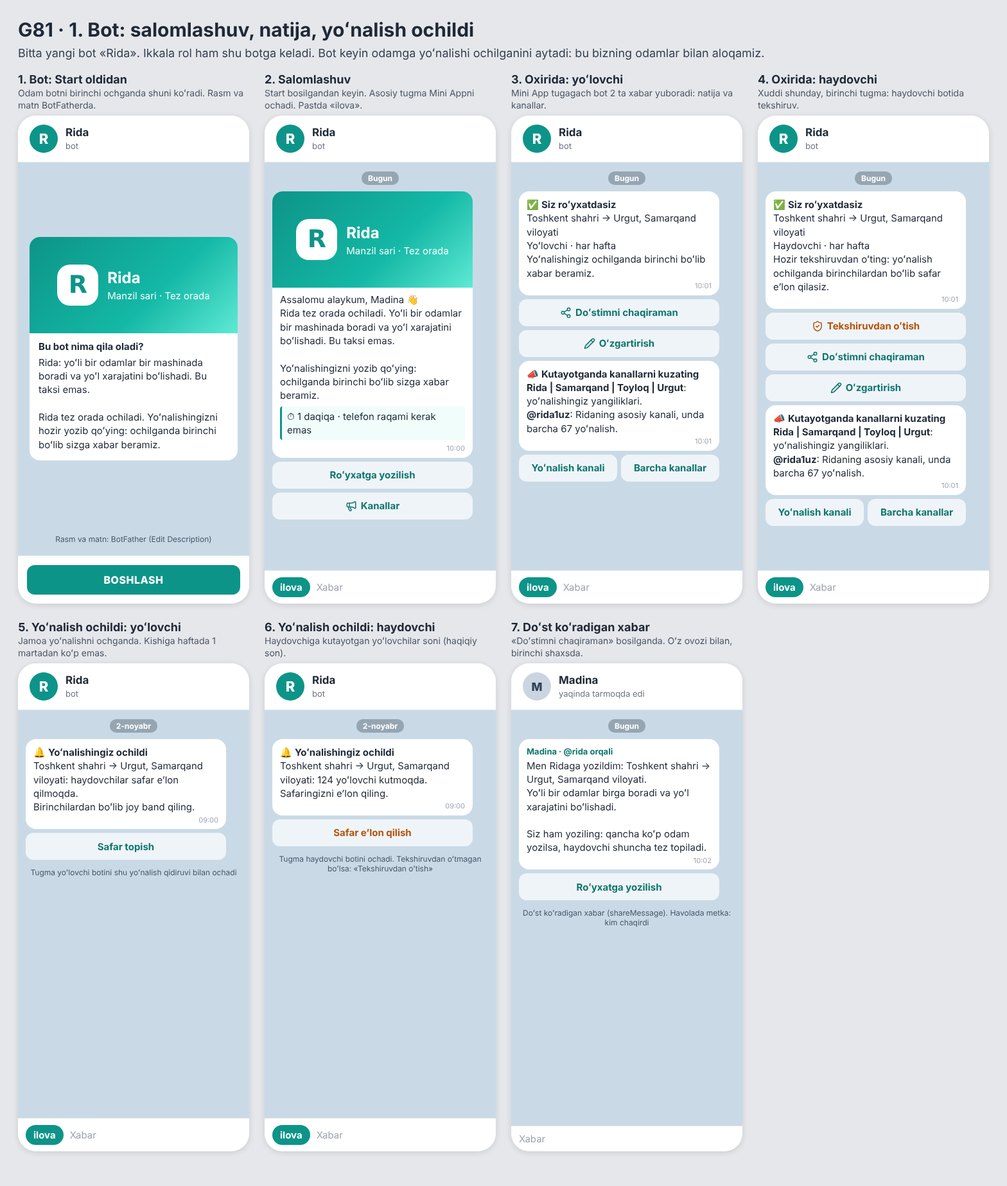
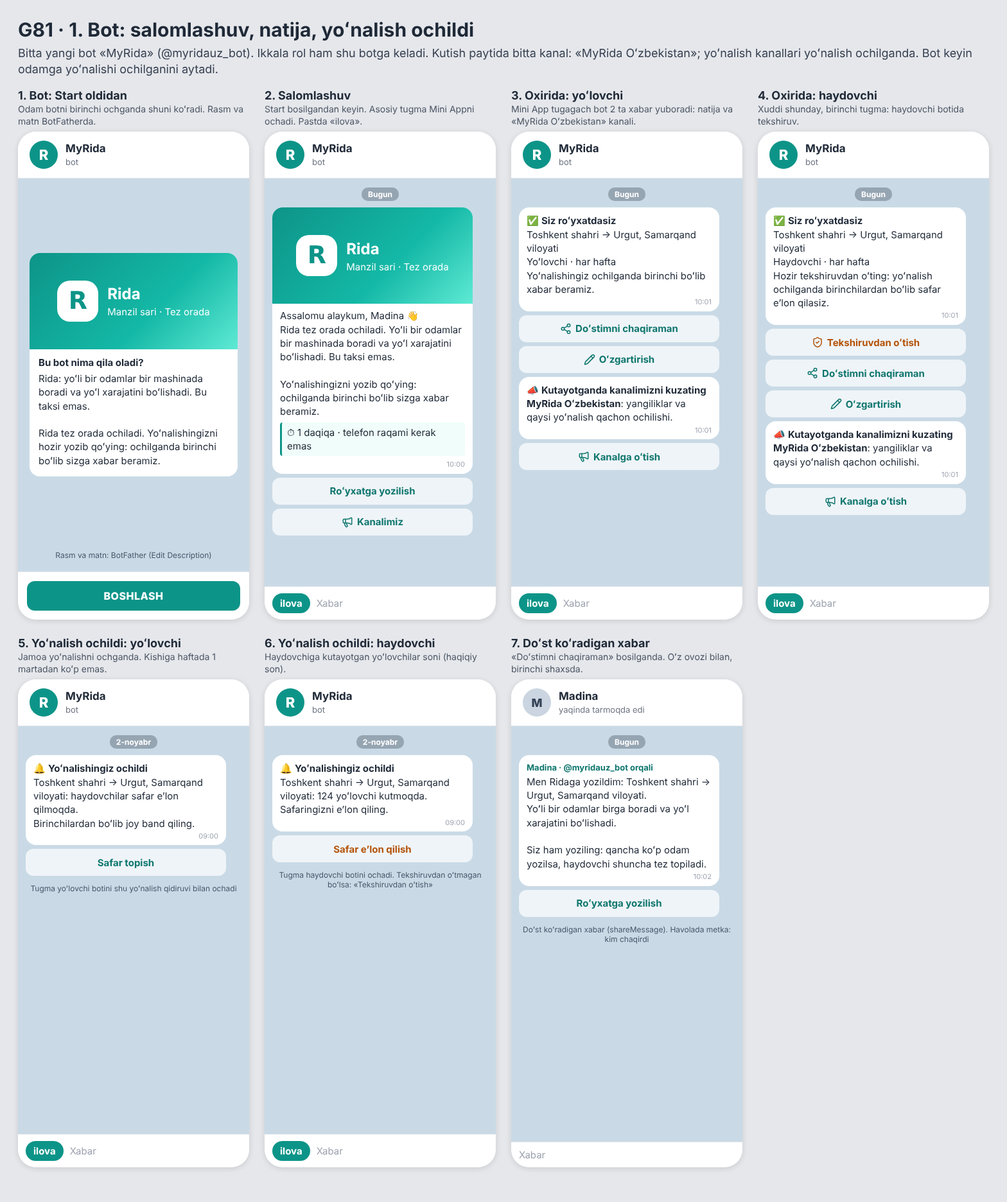
G81: бот MyRida, канал «MyRida Oʻzbekistan» на время списка (решение владельца 14.10.2026)
Claude-Session: https://claude.ai/code/session_017t3fyWoGp8cMjeQ2tEG71h

Changed region(s): [[0.0, 0.0309, 1.0, 0.8024]]

diff --git a/docs/goals/g81/src/1-bot.html b/docs/goals/g81/src/1-bot.html
@@ -121,4 +121,4 @@ h1{font-size:30px;margin-bottom:6px}
 .about .t{padding:10px 14px 14px}
 .about .t b{display:block;margin-bottom:4px}
 .tgnote{font-size:12px;color:#475569;text-align:center;padding:6px}
-</style></head><body><svg width="0" height="0" style="position:absolute"><defs><symbol id="user-round" viewBox="0 0 24 24" fill="none" stroke="currentColor" stroke-width="2" stroke-linecap="round" stroke-linejoin="round"><circle cx="12" cy="8" r="5" /> <path d="M20 21a8 8 0 0 0-16 0" /></symbol><symbol id="car-front" viewBox="0 0 24 24" fill="none" stroke="currentColor" stroke-width="2" stroke-linecap="round" stroke-linejoin="round"><path d="m21 8-2 2-1.5-3.7A2 2 0 0 0 15.646 5H8.4a2 2 0 0 0-1.903 1.257L5 10 3 8" /> <path d="M7 14h.01" /> <path d="M17 14h.01" /> <rect width="18" height="8" x="3" y="10" rx="2" /> <path d="M5 18v2" /> <path d="M19 18v2" /></symbol><symbol id="check" viewBox="0 0 24 24" fill="none" stroke="currentColor" stroke-width="2" stroke-linecap="round" stroke-linejoin="round"><path d="M20 6 9 17l-5-5" /></symbol><symbol id="chevron-right" viewBox="0 0 24 24" fill="none" stroke="currentColor" stroke-width="2" stroke-linecap="round" stroke-linejoin="round"><path d="m9 18 6-6-6-6" /></symbol><symbol id="users" viewBox="0 0 24 24" fill="none" stroke="currentColor" stroke-width="2" stroke-linecap="round" stroke-linejoin="round"><path d="M16 21v-2a4 4 0 0 0-4-4H6a4 4 0 0 0-4 4v2" /> <path d="M16 3.128a4 4 0 0 1 0 7.744" /> <path d="M22 21v-2a4 4 0 0 0-3-3.87" /> <circle cx="9" cy="7" r="4" /></symbol><symbol id="shield-check" viewBox="0 0 24 24" fill="none" stroke="currentColor" stroke-width="2" stroke-linecap="round" stroke-linejoin="round"><path d="M20 13c0 5-3.5 7.5-7.66 8.95a1 1 0 0 1-.67-.01C7.5 20.5 4 18 4 13V6a1 1 0 0 1 1-1c2 0 4.5-1.2 6.24-2.72a1.17 1.17 0 0 1 1.52 0C14.51 3.81 17 5 19 5a1 1 0 0 1 1 1z" /> <path d="m9 12 2 2 4-4" /></symbol><symbol id="banknote" viewBox="0 0 24 24" fill="none" stroke="currentColor" stroke-width="2" stroke-linecap="round" stroke-linejoin="round"><rect width="20" height="12" x="2" y="6" rx="2" /> <circle cx="12" cy="12" r="2" /> <path d="M6 12h.01M18 12h.01" /></symbol><symbol id="eye-off" viewBox="0 0 24 24" fill="none" stroke="currentColor" stroke-width="2" stroke-linecap="round" stroke-linejoin="round"><path d="M10.733 5.076a10.744 10.744 0 0 1 11.205 6.575 1 1 0 0 1 0 .696 10.747 10.747 0 0 1-1.444 2.49" /> <path d="M14.084 14.158a3 3 0 0 1-4.242-4.242" /> <path d="M17.479 17.499a10.75 10.75 0 0 1-15.417-5.151 1 1 0 0 1 0-.696 10.75 10.75 0 0 1 4.446-5.143" /> <path d="m2 2 20 20" /></symbol><symbol id="megaphone" viewBox="0 0 24 24" fill="none" stroke="currentColor" stroke-width="2" stroke-linecap="round" stroke-linejoin="round"><path d="M11 6a13 13 0 0 0 8.4-2.8A1 1 0 0 1 21 4v12a1 1 0 0 1-1.6.8A13 13 0 0 0 11 14H5a2 2 0 0 1-2-2V8a2 2 0 0 1 2-2z" /> <path d="M6 14a12 12 0 0 0 2.4 7.2 2 2 0 0 0 3.2-2.4A8 8 0 0 1 10 14" /> <path d="M8 6v8" /></symbol><symbol id="share-2" viewBox="0 0 24 24" fill="none" stroke="currentColor" stroke-width="2" stroke-linecap="round" stroke-linejoin="round"><circle cx="18" cy="5" r="3" /> <circle cx="6" cy="12" r="3" /> <circle cx="18" cy="19" r="3" /> <line x1="8.59" x2="15.42" y1="13.51" y2="17.49" /> <line x1="15.41" x2="8.59" y1="6.51" y2="10.49" /></symbol><symbol id="bell" viewBox="0 0 24 24" fill="none" stroke="currentColor" stroke-width="2" stroke-linecap="round" stroke-linejoin="round"><path d="M10.268 21a2 2 0 0 0 3.464 0" /> <path d="M3.262 15.326A1 1 0 0 0 4 17h16a1 1 0 0 0 .74-1.673C19.41 13.956 18 12.499 18 8A6 6 0 0 0 6 8c0 4.499-1.411 5.956-2.738 7.326" /></symbol><symbol id="repeat" viewBox="0 0 24 24" fill="none" stroke="currentColor" stroke-width="2" stroke-linecap="round" stroke-linejoin="round"><path d="m17 2 4 4-4 4" /> <path d="M3 11v-1a4 4 0 0 1 4-4h14" /> <path d="m7 22-4-4 4-4" /> <path d="M21 13v1a4 4 0 0 1-4 4H3" /></symbol><symbol id="calendar-days" viewBox="0 0 24 24" fill="none" stroke="currentColor" stroke-width="2" stroke-linecap="round" stroke-linejoin="round"><path d="M8 2v3" /> <path d="M16 2v3" /> <rect x="3" y="3" width="18" height="18" rx="2" /> <path d="M3 9h18" /> <path d="M8 13h.01" /> <path d="M12 13h.01" /> <path d="M16 13h.01" /> <path d="M8 17h.01" /> <path d="M12 17h.01" /> <path d="M16 17h.01" /></symbol><symbol id="party-popper" viewBox="0 0 24 24" fill="none" stroke="currentColor" stroke-width="2" stroke-linecap="round" stroke-linejoin="round"><path d="M5.8 11.3 2 22l10.7-3.79" /> <path d="M4 3h.01" /> <path d="M22 8h.01" /> <path d="M15 2h.01" /> <path d="M22 20h.01" /> <path d="m22 2-2.24.75a2.9 2.9 0 0 0-1.96 3.12c.1.86-.57 1.63-1.45 1.63h-.38c-.86 0-1.6.6-1.76 1.44L14 10" /> <path d="m22 13-.82-.33c-.86-.34-1.82.2-1.98 1.11c-.11.7-.72 1.22-1.43 1.22H17" /> <path d="m11 2 .33.82c.34.86-.2 1.82-1.11 1.98C9.52 4.9 9 5.52 9 6.23V7" /> <path d="M11 13c1.93 1.93 2.83 4.17 2 5-.83.83-3.07-.07-5-2-1.93-1.93-2.83-4.17-2-5 .83-.83 3.07.07 5 2Z" /></symbol><symbol id="calendar-check" viewBox="0 0 24 24" fill="none" stroke="currentColor" stroke-width="2" stroke-linecap="round" stroke-linejoin="round"><path d="M8 2v3" /> <path d="M16 2v3" /> <rect x="3" y="3" width="18" height="18" rx="2" /> <path d="M3 9h18" /> <path d="m9 15 2 2 4-4" /></symbol><symbol id="calendar-clock" viewBox="0 0 24 24" fill="none" stroke="currentColor" stroke-width="2" stroke-linecap="round" stroke-linejoin="round"><path d="M16 14v2.2l1.6 1" /> <path d="M16 2v3" /> <path d="M21 7.338V5a2 2 0 00-2-2H5a2 2 0 00-2 2v14a2 2 0 002 2h2.338" /> <path d="M3 9h5.859" /> <path d="M8 2v3" /> <circle cx="16" cy="16" r="6" /></symbol><symbol id="clock" viewBox="0 0 24 24" fill="none" stroke="currentColor" stroke-width="2" stroke-linecap="round" stroke-linejoin="round"><circle cx="12" cy="12" r="10" /> <path d="M12 6v6l4 2" /></symbol><symbol id="search" viewBox="0 0 24 24" fill="none" stroke="currentColor" stroke-width="2" stroke-linecap="round" stroke-linejoin="round"><path d="m21 21-4.34-4.34" /> <circle cx="11" cy="11" r="8" /></symbol><symbol id="trash-2" viewBox="0 0 24 24" fill="none" stroke="currentColor" stroke-width="2" stroke-linecap="round" stroke-linejoin="round"><path d="M10 11v6" /> <path d="M14 11v6" /> <path d="M19 6v14a2 2 0 0 1-2 2H7a2 2 0 0 1-2-2V6" /> <path d="M3 6h18" /> <path d="M8 6V4a2 2 0 0 1 2-2h4a2 2 0 0 1 2 2v2" /></symbol><symbol id="x" viewBox="0 0 24 24" fill="none" stroke="currentColor" stroke-width="2" stroke-linecap="round" stroke-linejoin="round"><path d="M18 6 6 18" /> <path d="m6 6 12 12" /></symbol><symbol id="map-pin" viewBox="0 0 24 24" fill="none" stroke="currentColor" stroke-width="2" stroke-linecap="round" stroke-linejoin="round"><path d="M20 10c0 4.993-5.539 10.193-7.399 11.799a1 1 0 0 1-1.202 0C9.539 20.193 4 14.993 4 10a8 8 0 0 1 16 0" /> <circle cx="12" cy="10" r="3" /></symbol><symbol id="send" viewBox="0 0 24 24" fill="none" stroke="currentColor" stroke-width="2" stroke-linecap="round" stroke-linejoin="round"><path d="M14.536 21.686a.5.5 0 0 0 .937-.024l6.5-19a.496.496 0 0 0-.635-.635l-19 6.5a.5.5 0 0 0-.024.937l7.93 3.18a2 2 0 0 1 1.112 1.11z" /> <path d="m21.854 2.147-10.94 10.939" /></symbol><symbol id="user-plus" viewBox="0 0 24 24" fill="none" stroke="currentColor" stroke-width="2" stroke-linecap="round" stroke-linejoin="round"><path d="M16 21v-2a4 4 0 0 0-4-4H6a4 4 0 0 0-4 4v2" /> <circle cx="9" cy="7" r="4" /> <line x1="19" x2="19" y1="8" y2="14" /> <line x1="22" x2="16" y1="11" y2="11" /></symbol><symbol id="pencil" viewBox="0 0 24 24" fill="none" stroke="currentColor" stroke-width="2" stroke-linecap="round" stroke-linejoin="round"><path d="M21.174 6.812a1 1 0 0 0-3.986-3.987L3.842 16.174a2 2 0 0 0-.5.83l-1.321 4.352a.5.5 0 0 0 .623.622l4.353-1.32a2 2 0 0 0 .83-.497z" /> <path d="m15 5 4 4" /></symbol><symbol id="chart-column" viewBox="0 0 24 24" fill="none" stroke="currentColor" stroke-width="2" stroke-linecap="round" stroke-linejoin="round"><path d="M3 3v16a2 2 0 0 0 2 2h16" /> <path d="M18 17V9" /> <path d="M13 17V5" /> <path d="M8 17v-3" /></symbol><symbol id="route" viewBox="0 0 24 24" fill="none" stroke="currentColor" stroke-width="2" stroke-linecap="round" stroke-linejoin="round"><circle cx="6" cy="19" r="3" /> <path d="M9 19h8.5a3.5 3.5 0 0 0 0-7h-11a3.5 3.5 0 0 1 0-7H15" /> <circle cx="18" cy="5" r="3" /></symbol><symbol id="circle-check" viewBox="0 0 24 24" fill="none" stroke="currentColor" stroke-width="2" stroke-linecap="round" stroke-linejoin="round"><circle cx="12" cy="12" r="10" /> <path d="m16 9-5.5 5.5L8 12" /></symbol></defs></svg><h1>G81 · 1. Bot: salomlashuv, natija, yoʻnalish ochildi</h1><div class="sub">Bitta yangi bot «Rida». Ikkala rol ham shu botga keladi. Bot keyin odamga yoʻnalishi ochilganini aytadi: bu bizning odamlar bilan aloqamiz.</div><div class="row"><div class="col"><div class="lab">1. Bot: Start oldidan<small>Odam botni birinchi ochganda shuni koʻradi. Rasm va matn BotFatherda.</small></div><div class="ph "><div class="tg"><div class="av ">R</div><div><b>Rida</b><span>bot</span></div></div><div class="chat" style="justify-content:center"><div class="about"><div class="pic"><div class="logo">R</div><div><b>Rida</b><span>Manzil sari · Tez orada</span></div></div><div class="t"><b>Bu bot nima qila oladi?</b>Rida: yoʻli bir odamlar bir mashinada boradi va yoʻl xarajatini boʻlishadi. Bu taksi emas.<br><br>Rida tez orada ochiladi. Yoʻnalishingizni hozir yozib qoʻying: ochilganda birinchi boʻlib sizga xabar beramiz.</div></div><div class="tgnote">Rasm va matn: BotFather (Edit Description)</div></div><div class="start"><div>BOSHLASH</div></div></div></div><div class="col"><div class="lab">2. Salomlashuv<small>Start bosilgandan keyin. Asosiy tugma Mini Appni ochadi. Pastda «ilova».</small></div><div class="ph "><div class="tg"><div class="av ">R</div><div><b>Rida</b><span>bot</span></div></div><div class="chat"><div class="date">Bugun</div><div class="msg"><div class="pic"><div class="logo">R</div><div><b>Rida</b><span>Manzil sari · Tez orada</span></div></div>Assalomu alaykum, Madina 👋<br>Rida tez orada ochiladi. Yoʻli bir odamlar bir mashinada boradi va yoʻl xarajatini boʻlishadi. Bu taksi emas.<br><br>Yoʻnalishingizni yozib qoʻying: ochilganda birinchi boʻlib sizga xabar beramiz.<div class="q">⏱ 1 daqiqa · telefon raqami kerak emas</div><time>10:00</time></div><div class="kb"><div>Roʻyxatga yozilish</div></div><div class="kb"><div><svg style="width:18px;height:18px;flex:none"><use href="#megaphone"/></svg>Kanallar</div></div></div><div class="input"><span class="menu">ilova</span><span>Xabar</span></div></div></div><div class="col"><div class="lab">3. Oxirida: yoʻlovchi<small>Mini App tugagach bot 2 ta xabar yuboradi: natija va kanallar.</small></div><div class="ph "><div class="tg"><div class="av ">R</div><div><b>Rida</b><span>bot</span></div></div><div class="chat"><div class="date">Bugun</div><div class="msg">✅ <b>Siz roʻyxatdasiz</b><br>Toshkent shahri → Urgut, Samarqand viloyati<br>Yoʻlovchi · har hafta<br>Yoʻnalishingiz ochilganda birinchi boʻlib xabar beramiz.<time>10:01</time></div><div class="kb"><div><svg style="width:18px;height:18px;flex:none"><use href="#share-2"/></svg>Doʻstimni chaqiraman</div></div><div class="kb"><div><svg style="width:18px;height:18px;flex:none"><use href="#pencil"/></svg>Oʻzgartirish</div></div><div class="msg">📣 <b>Kutayotganda kanallarni kuzating</b><br><b>Rida | Samarqand | Toyloq | Urgut</b>: yoʻnalishingiz yangiliklari.<br><b>@rida1uz</b>: Ridaning asosiy kanali, unda barcha 67 yoʻnalish.<time>10:01</time></div><div class="kb two"><div>Yoʻnalish kanali</div><div>Barcha kanallar</div></div></div><div class="input"><span class="menu">ilova</span><span>Xabar</span></div></div></div><div class="col"><div class="lab">4. Oxirida: haydovchi<small>Xuddi shunday, birinchi tugma: haydovchi botida tekshiruv.</small></div><div class="ph "><div class="tg"><div class="av ">R</div><div><b>Rida</b><span>bot</span></div></div><div class="chat"><div class="date">Bugun</div><div class="msg">✅ <b>Siz roʻyxatdasiz</b><br>Toshkent shahri → Urgut, Samarqand viloyati<br>Haydovchi · har hafta<br>Hozir tekshiruvdan oʻting: yoʻnalish ochilganda birinchilardan boʻlib safar eʼlon qilasiz.<time>10:01</time></div><div class="kb"><div style="color:#B45309"><svg style="width:18px;height:18px;flex:none"><use href="#shield-check"/></svg>Tekshiruvdan oʻtish</div></div><div class="kb"><div><svg style="width:18px;height:18px;flex:none"><use href="#share-2"/></svg>Doʻstimni chaqiraman</div></div><div class="kb"><div><svg style="width:18px;height:18px;flex:none"><use href="#pencil"/></svg>Oʻzgartirish</div></div><div class="msg">📣 <b>Kutayotganda kanallarni kuzating</b><br><b>Rida | Samarqand | Toyloq | Urgut</b>: yoʻnalishingiz yangiliklari.<br><b>@rida1uz</b>: Ridaning asosiy kanali, unda barcha 67 yoʻnalish.<time>10:01</time></div><div class="kb two"><div>Yoʻnalish kanali</div><div>Barcha kanallar</div></div></div><div class="input"><span class="menu">ilova</span><span>Xabar</span></div></div></div></div><div class="row"><div class="col"><div class="lab">5. Yoʻnalish ochildi: yoʻlovchi<small>Jamoa yoʻnalishni ochganda. Kishiga haftada 1 martadan koʻp emas.</small></div><div class="ph "><div class="tg"><div class="av ">R</div><div><b>Rida</b><span>bot</span></div></div><div class="chat"><div class="date">2-noyabr</div><div class="msg">🔔 <b>Yoʻnalishingiz ochildi</b><br>Toshkent shahri → Urgut, Samarqand viloyati: haydovchilar safar eʼlon qilmoqda.<br>Birinchilardan boʻlib joy band qiling.<time>09:00</time></div><div class="kb"><div>Safar topish</div></div><div class="tgnote">Tugma yoʻlovchi botini shu yoʻnalish qidiruvi bilan ochadi</div></div><div class="input"><span class="menu">ilova</span><span>Xabar</span></div></div></div><div class="col"><div class="lab">6. Yoʻnalish ochildi: haydovchi<small>Haydovchiga kutayotgan yoʻlovchilar soni (haqiqiy son).</small></div><div class="ph "><div class="tg"><div class="av ">R</div><div><b>Rida</b><span>bot</span></div></div><div class="chat"><div class="date">2-noyabr</div><div class="msg">🔔 <b>Yoʻnalishingiz ochildi</b><br>Toshkent shahri → Urgut, Samarqand viloyati: 124 yoʻlovchi kutmoqda.<br>Safaringizni eʼlon qiling.<time>09:00</time></div><div class="kb"><div style="color:#B45309">Safar eʼlon qilish</div></div><div class="tgnote">Tugma haydovchi botini ochadi. Tekshiruvdan oʻtmagan boʻlsa: «Tekshiruvdan oʻtish»</div></div><div class="input"><span class="menu">ilova</span><span>Xabar</span></div></div></div><div class="col"><div class="lab">7. Doʻst koʻradigan xabar<small>«Doʻstimni chaqiraman» bosilganda. Oʻz ovozi bilan, birinchi shaxsda.</small></div><div class="ph "><div class="tg"><div class="av f">M</div><div><b>Madina</b><span>yaqinda tarmoqda edi</span></div></div><div class="chat"><div class="date">Bugun</div><div class="msg"><div class="via">Madina · @rida orqali</div>Men Ridaga yozildim: Toshkent shahri → Urgut, Samarqand viloyati.<br>Yoʻli bir odamlar birga boradi va yoʻl xarajatini boʻlishadi.<br><br>Siz ham yoziling: qancha koʻp odam yozilsa, haydovchi shuncha tez topiladi.<time>10:02</time></div><div class="kb"><div>Roʻyxatga yozilish</div></div><div class="tgnote">Doʻst koʻradigan xabar (shareMessage). Havolada metka: kim chaqirdi</div></div><div class="input"><span>Xabar</span></div></div></div></div></body></html>
+</style></head><body><svg width="0" height="0" style="position:absolute"><defs><symbol id="user-round" viewBox="0 0 24 24" fill="none" stroke="currentColor" stroke-width="2" stroke-linecap="round" stroke-linejoin="round"><circle cx="12" cy="8" r="5" /> <path d="M20 21a8 8 0 0 0-16 0" /></symbol><symbol id="car-front" viewBox="0 0 24 24" fill="none" stroke="currentColor" stroke-width="2" stroke-linecap="round" stroke-linejoin="round"><path d="m21 8-2 2-1.5-3.7A2 2 0 0 0 15.646 5H8.4a2 2 0 0 0-1.903 1.257L5 10 3 8" /> <path d="M7 14h.01" /> <path d="M17 14h.01" /> <rect width="18" height="8" x="3" y="10" rx="2" /> <path d="M5 18v2" /> <path d="M19 18v2" /></symbol><symbol id="check" viewBox="0 0 24 24" fill="none" stroke="currentColor" stroke-width="2" stroke-linecap="round" stroke-linejoin="round"><path d="M20 6 9 17l-5-5" /></symbol><symbol id="chevron-right" viewBox="0 0 24 24" fill="none" stroke="currentColor" stroke-width="2" stroke-linecap="round" stroke-linejoin="round"><path d="m9 18 6-6-6-6" /></symbol><symbol id="users" viewBox="0 0 24 24" fill="none" stroke="currentColor" stroke-width="2" stroke-linecap="round" stroke-linejoin="round"><path d="M16 21v-2a4 4 0 0 0-4-4H6a4 4 0 0 0-4 4v2" /> <path d="M16 3.128a4 4 0 0 1 0 7.744" /> <path d="M22 21v-2a4 4 0 0 0-3-3.87" /> <circle cx="9" cy="7" r="4" /></symbol><symbol id="shield-check" viewBox="0 0 24 24" fill="none" stroke="currentColor" stroke-width="2" stroke-linecap="round" stroke-linejoin="round"><path d="M20 13c0 5-3.5 7.5-7.66 8.95a1 1 0 0 1-.67-.01C7.5 20.5 4 18 4 13V6a1 1 0 0 1 1-1c2 0 4.5-1.2 6.24-2.72a1.17 1.17 0 0 1 1.52 0C14.51 3.81 17 5 19 5a1 1 0 0 1 1 1z" /> <path d="m9 12 2 2 4-4" /></symbol><symbol id="banknote" viewBox="0 0 24 24" fill="none" stroke="currentColor" stroke-width="2" stroke-linecap="round" stroke-linejoin="round"><rect width="20" height="12" x="2" y="6" rx="2" /> <circle cx="12" cy="12" r="2" /> <path d="M6 12h.01M18 12h.01" /></symbol><symbol id="eye-off" viewBox="0 0 24 24" fill="none" stroke="currentColor" stroke-width="2" stroke-linecap="round" stroke-linejoin="round"><path d="M10.733 5.076a10.744 10.744 0 0 1 11.205 6.575 1 1 0 0 1 0 .696 10.747 10.747 0 0 1-1.444 2.49" /> <path d="M14.084 14.158a3 3 0 0 1-4.242-4.242" /> <path d="M17.479 17.499a10.75 10.75 0 0 1-15.417-5.151 1 1 0 0 1 0-.696 10.75 10.75 0 0 1 4.446-5.143" /> <path d="m2 2 20 20" /></symbol><symbol id="megaphone" viewBox="0 0 24 24" fill="none" stroke="currentColor" stroke-width="2" stroke-linecap="round" stroke-linejoin="round"><path d="M11 6a13 13 0 0 0 8.4-2.8A1 1 0 0 1 21 4v12a1 1 0 0 1-1.6.8A13 13 0 0 0 11 14H5a2 2 0 0 1-2-2V8a2 2 0 0 1 2-2z" /> <path d="M6 14a12 12 0 0 0 2.4 7.2 2 2 0 0 0 3.2-2.4A8 8 0 0 1 10 14" /> <path d="M8 6v8" /></symbol><symbol id="share-2" viewBox="0 0 24 24" fill="none" stroke="currentColor" stroke-width="2" stroke-linecap="round" stroke-linejoin="round"><circle cx="18" cy="5" r="3" /> <circle cx="6" cy="12" r="3" /> <circle cx="18" cy="19" r="3" /> <line x1="8.59" x2="15.42" y1="13.51" y2="17.49" /> <line x1="15.41" x2="8.59" y1="6.51" y2="10.49" /></symbol><symbol id="bell" viewBox="0 0 24 24" fill="none" stroke="currentColor" stroke-width="2" stroke-linecap="round" stroke-linejoin="round"><path d="M10.268 21a2 2 0 0 0 3.464 0" /> <path d="M3.262 15.326A1 1 0 0 0 4 17h16a1 1 0 0 0 .74-1.673C19.41 13.956 18 12.499 18 8A6 6 0 0 0 6 8c0 4.499-1.411 5.956-2.738 7.326" /></symbol><symbol id="repeat" viewBox="0 0 24 24" fill="none" stroke="currentColor" stroke-width="2" stroke-linecap="round" stroke-linejoin="round"><path d="m17 2 4 4-4 4" /> <path d="M3 11v-1a4 4 0 0 1 4-4h14" /> <path d="m7 22-4-4 4-4" /> <path d="M21 13v1a4 4 0 0 1-4 4H3" /></symbol><symbol id="calendar-days" viewBox="0 0 24 24" fill="none" stroke="currentColor" stroke-width="2" stroke-linecap="round" stroke-linejoin="round"><path d="M8 2v3" /> <path d="M16 2v3" /> <rect x="3" y="3" width="18" height="18" rx="2" /> <path d="M3 9h18" /> <path d="M8 13h.01" /> <path d="M12 13h.01" /> <path d="M16 13h.01" /> <path d="M8 17h.01" /> <path d="M12 17h.01" /> <path d="M16 17h.01" /></symbol><symbol id="party-popper" viewBox="0 0 24 24" fill="none" stroke="currentColor" stroke-width="2" stroke-linecap="round" stroke-linejoin="round"><path d="M5.8 11.3 2 22l10.7-3.79" /> <path d="M4 3h.01" /> <path d="M22 8h.01" /> <path d="M15 2h.01" /> <path d="M22 20h.01" /> <path d="m22 2-2.24.75a2.9 2.9 0 0 0-1.96 3.12c.1.86-.57 1.63-1.45 1.63h-.38c-.86 0-1.6.6-1.76 1.44L14 10" /> <path d="m22 13-.82-.33c-.86-.34-1.82.2-1.98 1.11c-.11.7-.72 1.22-1.43 1.22H17" /> <path d="m11 2 .33.82c.34.86-.2 1.82-1.11 1.98C9.52 4.9 9 5.52 9 6.23V7" /> <path d="M11 13c1.93 1.93 2.83 4.17 2 5-.83.83-3.07-.07-5-2-1.93-1.93-2.83-4.17-2-5 .83-.83 3.07.07 5 2Z" /></symbol><symbol id="calendar-check" viewBox="0 0 24 24" fill="none" stroke="currentColor" stroke-width="2" stroke-linecap="round" stroke-linejoin="round"><path d="M8 2v3" /> <path d="M16 2v3" /> <rect x="3" y="3" width="18" height="18" rx="2" /> <path d="M3 9h18" /> <path d="m9 15 2 2 4-4" /></symbol><symbol id="calendar-clock" viewBox="0 0 24 24" fill="none" stroke="currentColor" stroke-width="2" stroke-linecap="round" stroke-linejoin="round"><path d="M16 14v2.2l1.6 1" /> <path d="M16 2v3" /> <path d="M21 7.338V5a2 2 0 00-2-2H5a2 2 0 00-2 2v14a2 2 0 002 2h2.338" /> <path d="M3 9h5.859" /> <path d="M8 2v3" /> <circle cx="16" cy="16" r="6" /></symbol><symbol id="clock" viewBox="0 0 24 24" fill="none" stroke="currentColor" stroke-width="2" stroke-linecap="round" stroke-linejoin="round"><circle cx="12" cy="12" r="10" /> <path d="M12 6v6l4 2" /></symbol><symbol id="search" viewBox="0 0 24 24" fill="none" stroke="currentColor" stroke-width="2" stroke-linecap="round" stroke-linejoin="round"><path d="m21 21-4.34-4.34" /> <circle cx="11" cy="11" r="8" /></symbol><symbol id="trash-2" viewBox="0 0 24 24" fill="none" stroke="currentColor" stroke-width="2" stroke-linecap="round" stroke-linejoin="round"><path d="M10 11v6" /> <path d="M14 11v6" /> <path d="M19 6v14a2 2 0 0 1-2 2H7a2 2 0 0 1-2-2V6" /> <path d="M3 6h18" /> <path d="M8 6V4a2 2 0 0 1 2-2h4a2 2 0 0 1 2 2v2" /></symbol><symbol id="x" viewBox="0 0 24 24" fill="none" stroke="currentColor" stroke-width="2" stroke-linecap="round" stroke-linejoin="round"><path d="M18 6 6 18" /> <path d="m6 6 12 12" /></symbol><symbol id="map-pin" viewBox="0 0 24 24" fill="none" stroke="currentColor" stroke-width="2" stroke-linecap="round" stroke-linejoin="round"><path d="M20 10c0 4.993-5.539 10.193-7.399 11.799a1 1 0 0 1-1.202 0C9.539 20.193 4 14.993 4 10a8 8 0 0 1 16 0" /> <circle cx="12" cy="10" r="3" /></symbol><symbol id="send" viewBox="0 0 24 24" fill="none" stroke="currentColor" stroke-width="2" stroke-linecap="round" stroke-linejoin="round"><path d="M14.536 21.686a.5.5 0 0 0 .937-.024l6.5-19a.496.496 0 0 0-.635-.635l-19 6.5a.5.5 0 0 0-.024.937l7.93 3.18a2 2 0 0 1 1.112 1.11z" /> <path d="m21.854 2.147-10.94 10.939" /></symbol><symbol id="user-plus" viewBox="0 0 24 24" fill="none" stroke="currentColor" stroke-width="2" stroke-linecap="round" stroke-linejoin="round"><path d="M16 21v-2a4 4 0 0 0-4-4H6a4 4 0 0 0-4 4v2" /> <circle cx="9" cy="7" r="4" /> <line x1="19" x2="19" y1="8" y2="14" /> <line x1="22" x2="16" y1="11" y2="11" /></symbol><symbol id="pencil" viewBox="0 0 24 24" fill="none" stroke="currentColor" stroke-width="2" stroke-linecap="round" stroke-linejoin="round"><path d="M21.174 6.812a1 1 0 0 0-3.986-3.987L3.842 16.174a2 2 0 0 0-.5.83l-1.321 4.352a.5.5 0 0 0 .623.622l4.353-1.32a2 2 0 0 0 .83-.497z" /> <path d="m15 5 4 4" /></symbol><symbol id="chart-column" viewBox="0 0 24 24" fill="none" stroke="currentColor" stroke-width="2" stroke-linecap="round" stroke-linejoin="round"><path d="M3 3v16a2 2 0 0 0 2 2h16" /> <path d="M18 17V9" /> <path d="M13 17V5" /> <path d="M8 17v-3" /></symbol><symbol id="route" viewBox="0 0 24 24" fill="none" stroke="currentColor" stroke-width="2" stroke-linecap="round" stroke-linejoin="round"><circle cx="6" cy="19" r="3" /> <path d="M9 19h8.5a3.5 3.5 0 0 0 0-7h-11a3.5 3.5 0 0 1 0-7H15" /> <circle cx="18" cy="5" r="3" /></symbol><symbol id="circle-check" viewBox="0 0 24 24" fill="none" stroke="currentColor" stroke-width="2" stroke-linecap="round" stroke-linejoin="round"><circle cx="12" cy="12" r="10" /> <path d="m16 9-5.5 5.5L8 12" /></symbol></defs></svg><h1>G81 · 1. Bot: salomlashuv, natija, yoʻnalish ochildi</h1><div class="sub">Bitta yangi bot «MyRida» (@myridauz_bot). Ikkala rol ham shu botga keladi. Kutish paytida bitta kanal: «MyRida Oʻzbekistan»; yoʻnalish kanallari yoʻnalish ochilganda. Bot keyin odamga yoʻnalishi ochilganini aytadi.</div><div class="row"><div class="col"><div class="lab">1. Bot: Start oldidan<small>Odam botni birinchi ochganda shuni koʻradi. Rasm va matn BotFatherda.</small></div><div class="ph "><div class="tg"><div class="av ">R</div><div><b>MyRida</b><span>bot</span></div></div><div class="chat" style="justify-content:center"><div class="about"><div class="pic"><div class="logo">R</div><div><b>Rida</b><span>Manzil sari · Tez orada</span></div></div><div class="t"><b>Bu bot nima qila oladi?</b>Rida: yoʻli bir odamlar bir mashinada boradi va yoʻl xarajatini boʻlishadi. Bu taksi emas.<br><br>Rida tez orada ochiladi. Yoʻnalishingizni hozir yozib qoʻying: ochilganda birinchi boʻlib sizga xabar beramiz.</div></div><div class="tgnote">Rasm va matn: BotFather (Edit Description)</div></div><div class="start"><div>BOSHLASH</div></div></div></div><div class="col"><div class="lab">2. Salomlashuv<small>Start bosilgandan keyin. Asosiy tugma Mini Appni ochadi. Pastda «ilova».</small></div><div class="ph "><div class="tg"><div class="av ">R</div><div><b>MyRida</b><span>bot</span></div></div><div class="chat"><div class="date">Bugun</div><div class="msg"><div class="pic"><div class="logo">R</div><div><b>Rida</b><span>Manzil sari · Tez orada</span></div></div>Assalomu alaykum, Madina 👋<br>Rida tez orada ochiladi. Yoʻli bir odamlar bir mashinada boradi va yoʻl xarajatini boʻlishadi. Bu taksi emas.<br><br>Yoʻnalishingizni yozib qoʻying: ochilganda birinchi boʻlib sizga xabar beramiz.<div class="q">⏱ 1 daqiqa · telefon raqami kerak emas</div><time>10:00</time></div><div class="kb"><div>Roʻyxatga yozilish</div></div><div class="kb"><div><svg style="width:18px;height:18px;flex:none"><use href="#megaphone"/></svg>Kanalimiz</div></div></div><div class="input"><span class="menu">ilova</span><span>Xabar</span></div></div></div><div class="col"><div class="lab">3. Oxirida: yoʻlovchi<small>Mini App tugagach bot 2 ta xabar yuboradi: natija va «MyRida Oʻzbekistan» kanali.</small></div><div class="ph "><div class="tg"><div class="av ">R</div><div><b>MyRida</b><span>bot</span></div></div><div class="chat"><div class="date">Bugun</div><div class="msg">✅ <b>Siz roʻyxatdasiz</b><br>Toshkent shahri → Urgut, Samarqand viloyati<br>Yoʻlovchi · har hafta<br>Yoʻnalishingiz ochilganda birinchi boʻlib xabar beramiz.<time>10:01</time></div><div class="kb"><div><svg style="width:18px;height:18px;flex:none"><use href="#share-2"/></svg>Doʻstimni chaqiraman</div></div><div class="kb"><div><svg style="width:18px;height:18px;flex:none"><use href="#pencil"/></svg>Oʻzgartirish</div></div><div class="msg">📣 <b>Kutayotganda kanalimizni kuzating</b><br><b>MyRida Oʻzbekistan</b>: yangiliklar va qaysi yoʻnalish qachon ochilishi.<time>10:01</time></div><div class="kb"><div><svg style="width:18px;height:18px;flex:none"><use href="#megaphone"/></svg>Kanalga oʻtish</div></div></div><div class="input"><span class="menu">ilova</span><span>Xabar</span></div></div></div><div class="col"><div class="lab">4. Oxirida: haydovchi<small>Xuddi shunday, birinchi tugma: haydovchi botida tekshiruv.</small></div><div class="ph "><div class="tg"><div class="av ">R</div><div><b>MyRida</b><span>bot</span></div></div><div class="chat"><div class="date">Bugun</div><div class="msg">✅ <b>Siz roʻyxatdasiz</b><br>Toshkent shahri → Urgut, Samarqand viloyati<br>Haydovchi · har hafta<br>Hozir tekshiruvdan oʻting: yoʻnalish ochilganda birinchilardan boʻlib safar eʼlon qilasiz.<time>10:01</time></div><div class="kb"><div style="color:#B45309"><svg style="width:18px;height:18px;flex:none"><use href="#shield-check"/></svg>Tekshiruvdan oʻtish</div></div><div class="kb"><div><svg style="width:18px;height:18px;flex:none"><use href="#share-2"/></svg>Doʻstimni chaqiraman</div></div><div class="kb"><div><svg style="width:18px;height:18px;flex:none"><use href="#pencil"/></svg>Oʻzgartirish</div></div><div class="msg">📣 <b>Kutayotganda kanalimizni kuzating</b><br><b>MyRida Oʻzbekistan</b>: yangiliklar va qaysi yoʻnalish qachon ochilishi.<time>10:01</time></div><div class="kb"><div><svg style="width:18px;height:18px;flex:none"><use href="#megaphone"/></svg>Kanalga oʻtish</div></div></div><div class="input"><span class="menu">ilova</span><span>Xabar</span></div></div></div></div><div class="row"><div class="col"><div class="lab">5. Yoʻnalish ochildi: yoʻlovchi<small>Jamoa yoʻnalishni ochganda. Kishiga haftada 1 martadan koʻp emas.</small></div><div class="ph "><div class="tg"><div class="av ">R</div><div><b>MyRida</b><span>bot</span></div></div><div class="chat"><div class="date">2-noyabr</div><div class="msg">🔔 <b>Yoʻnalishingiz ochildi</b><br>Toshkent shahri → Urgut, Samarqand viloyati: haydovchilar safar eʼlon qilmoqda.<br>Birinchilardan boʻlib joy band qiling.<time>09:00</time></div><div class="kb"><div>Safar topish</div></div><div class="tgnote">Tugma yoʻlovchi botini shu yoʻnalish qidiruvi bilan ochadi</div></div><div class="input"><span class="menu">ilova</span><span>Xabar</span></div></div></div><div class="col"><div class="lab">6. Yoʻnalish ochildi: haydovchi<small>Haydovchiga kutayotgan yoʻlovchilar soni (haqiqiy son).</small></div><div class="ph "><div class="tg"><div class="av ">R</div><div><b>MyRida</b><span>bot</span></div></div><div class="chat"><div class="date">2-noyabr</div><div class="msg">🔔 <b>Yoʻnalishingiz ochildi</b><br>Toshkent shahri → Urgut, Samarqand viloyati: 124 yoʻlovchi kutmoqda.<br>Safaringizni eʼlon qiling.<time>09:00</time></div><div class="kb"><div style="color:#B45309">Safar eʼlon qilish</div></div><div class="tgnote">Tugma haydovchi botini ochadi. Tekshiruvdan oʻtmagan boʻlsa: «Tekshiruvdan oʻtish»</div></div><div class="input"><span class="menu">ilova</span><span>Xabar</span></div></div></div><div class="col"><div class="lab">7. Doʻst koʻradigan xabar<small>«Doʻstimni chaqiraman» bosilganda. Oʻz ovozi bilan, birinchi shaxsda.</small></div><div class="ph "><div class="tg"><div class="av f">M</div><div><b>Madina</b><span>yaqinda tarmoqda edi</span></div></div><div class="chat"><div class="date">Bugun</div><div class="msg"><div class="via">Madina · @myridauz_bot orqali</div>Men Ridaga yozildim: Toshkent shahri → Urgut, Samarqand viloyati.<br>Yoʻli bir odamlar birga boradi va yoʻl xarajatini boʻlishadi.<br><br>Siz ham yoziling: qancha koʻp odam yozilsa, haydovchi shuncha tez topiladi.<time>10:02</time></div><div class="kb"><div>Roʻyxatga yozilish</div></div><div class="tgnote">Doʻst koʻradigan xabar (shareMessage). Havolada metka: kim chaqirdi</div></div><div class="input"><span>Xabar</span></div></div></div></div></body></html>

diff --git a/docs/179-waitlist.md b/docs/179-waitlist.md
@@ -1,6 +1,6 @@
 # 179. Список ожидания: заявки заранее от попутчика и водителя (G81)
 
-> **Кратко:** решение владельца 14.10.2026. До открытия поездок человек не видит пустой поиск. Один новый бот «Rida» и его Mini App: человек выбирает роль, направление и «когда»; видит ценность Rida и «Tez orada»; получает канал своего направления. Обе стороны говорят заранее: попутчик «я поеду», водитель «я повезу». Команда видит, сколько людей ждёт на каждом направлении, и открывает направление, когда там есть водители: бот пишет всем, кто ждёт. Макеты: `goals/g81`, тексты: `180`. План: запуск списка 18.10.2026.
+> **Кратко:** решение владельца 14.10.2026. До открытия поездок человек не видит пустой поиск. Один новый бот «MyRida» (`@myridauz_bot`) и его Mini App: человек выбирает роль, направление и «когда»; видит ценность Rida и «Tez orada»; получает канал «MyRida Oʻzbekistan». Обе стороны говорят заранее: попутчик «я поеду», водитель «я повезу». Команда видит, сколько людей ждёт на каждом направлении, и открывает направление, когда там есть водители: бот пишет всем, кто ждёт. Макеты: `goals/g81`, тексты: `180`. План: запуск списка 18.10.2026.
 
 ## Зачем
 
@@ -18,14 +18,14 @@
 | № | Где | Что | Лист |
 |---|---|---|---|
 | 1 | Бот до Start | Описание и картинка (BotFather) | `1-bot` 1 |
-| 2 | Бот после Start | Приветствие, «Roʻyxatga yozilish» открывает Mini App, «Kanallar», меню «ilova» | `1-bot` 2 |
+| 2 | Бот после Start | Приветствие, «Roʻyxatga yozilish» открывает Mini App, «Kanalimiz», меню «ilova» | `1-bot` 2 |
 | 3 | Mini App | «Kim boʻlib yoʻlga chiqasiz?»: Yoʻlovchiman или Haydovchiman; цвет приложения дальше по роли | `2-questionnaire` 1 |
 | 4 | Mini App | «Qayerdan yoʻlga chiqasiz?»: 14 областей (как G26) | `2-questionnaire` 2, 7 |
 | 5 | Mini App | «Qayerga borasiz?»: та же сетка, область «Qayerdan» серая | `2-questionnaire` 3 |
 | 6 | Mini App | «…ning qaysi joyi?»: место в области; у «Toshkent shahri» шага нет | `2-questionnaire` 4 |
 | 7 | Mini App | «Qachon»: попутчик har hafta, har oy, bayramlarda, bir marta (день шторкой); водитель har kuni, har hafta, har oy, baʼzan | `2-questionnaire` 5, 6, 8 |
 | 8 | Mini App | «Siz roʻyxatdasiz»: ответы, счётчик, «Nima uchun Rida», 2 кнопки | `3-result` 1 … 3 |
-| 9 | Бот | Итог и пост каналов: канал своего направления (`channelOf`, `176`) и `@rida1uz` | `1-bot` 3, 4 |
+| 9 | Бот | Итог и пост канала «MyRida Oʻzbekistan» | `1-bot` 3, 4 |
 | 10 | Бот, позже | «Yoʻnalishingiz ochildi»: попутчику поиск в боте попутчика, водителю бот водителя | `1-bot` 5, 6 |
 
 - Телефон не спрашиваем: хватает Telegram ID. Меньше шагов.
@@ -52,7 +52,8 @@
 
 ## Каналы
 
-- После опросника бот присылает канал направления и `@rida1uz`.
+- Пока идёт список, канал один: «MyRida Oʻzbekistan», не `@rida1uz` из прода (решение владельца 14.10.2026). Туда ведут кнопка бота и «Kanalga qoʻshilish».
+- Каналы направлений (`176`) человек получает, когда его направление открыто: пустой канал без поездок не зовём.
 - Анонсы в каналах 2 раза в неделю, только реальные новости (например, сколько водителей прошло проверку). Первые 4 текста на согласие владельца.
 
 ## Данные
@@ -71,5 +72,5 @@
 | Логика «обе стороны заранее» | Да, 14.10.2026 |
 | Макеты `goals/g81` (4 листа) | Ждут согласия |
 | Тексты `180` | Ждут согласия и проверки носителем |
-| Новый бот | `@myridauz_bot`, имя «Rida» (создан владельцем 14.10.2026); токен: секрет Worker `MAIN_BOT_TOKEN` (`46`), не в чат |
+| Новый бот | `@myridauz_bot`, имя «MyRida» (решение владельца 14.10.2026); токен: секрет Worker `MAIN_BOT_TOKEN` (`46`), не в чат |
 | 18.10.2026: запуск списка, поездки по направлениям позже | Ждёт подтверждения |

diff --git a/docs/180-g81-texts.md b/docs/180-g81-texts.md
@@ -1,6 +1,6 @@
 # 180. G81: тексты списка ожидания на согласие владельца
 
-> **Кратко:** все тексты нового бота «Rida», опросника, экрана результата и блока команды по макетам `goals/g81` (`179`). Знак «есть» значит: текст уже есть в продукте, берём тот же ключ. Остальное новое: нужно «да» владельца и проверка носителем (`25`). Имя бренда в текстах из конфига бренда (`{brand}`), не в коде.
+> **Кратко:** все тексты нового бота «MyRida» (`@myridauz_bot`), опросника, экрана результата и блока команды по макетам `goals/g81` (`179`). Знак «есть» значит: текст уже есть в продукте, берём тот же ключ. Остальное новое: нужно «да» владельца и проверка носителем (`25`). Имя бренда в текстах из конфига бренда (`{brand}`), не в коде.
 
 ## Бот
 
@@ -9,13 +9,13 @@
 | Описание до Start | Rida: yoʻli bir odamlar bir mashinada boradi va yoʻl xarajatini boʻlishadi. Bu taksi emas. Rida tez orada ochiladi. Yoʻnalishingizni hozir yozib qoʻying: ochilganda birinchi boʻlib sizga xabar beramiz. | Что это и что делать сейчас |
 | Приветствие | Assalomu alaykum, {name} 👋 Rida tez orada ochiladi. Yoʻli bir odamlar bir mashinada boradi va yoʻl xarajatini boʻlishadi. Bu taksi emas. Yoʻnalishingizni yozib qoʻying: ochilganda birinchi boʻlib sizga xabar beramiz. | Приветствие и просьба |
 | Приветствие, строка | ⏱ 1 daqiqa · telefon raqami kerak emas | Быстро, без телефона |
-| Кнопки | Roʻyxatga yozilish · Kanallar | Записаться · Каналы |
+| Кнопки | Roʻyxatga yozilish · Kanalimiz | Записаться · Наш канал |
 | Меню | ilova (есть) | Открыть приложение |
 | Итог | ✅ Siz roʻyxatdasiz · {route} · Yoʻlovchi · har hafta · Yoʻnalishingiz ochilganda birinchi boʻlib xabar beramiz. | Вы в списке |
 | Итог водителя | Hozir tekshiruvdan oʻting: yoʻnalish ochilganda birinchilardan boʻlib safar eʼlon qilasiz. | Пройдите проверку сейчас |
 | Кнопки итога | Tekshiruvdan oʻtish · Doʻstimni chaqiraman · Oʻzgartirish (есть) | Проверка · Позвать друга · Изменить |
-| Пост каналов | 📣 Kutayotganda kanallarni kuzating · {channel}: yoʻnalishingiz yangiliklari. · @rida1uz: Ridaning asosiy kanali, unda barcha 67 yoʻnalish. | Каналы, пока ждёте |
-| Кнопки поста | Yoʻnalish kanali · Barcha kanallar | Канал направления · Все каналы |
+| Пост канала | 📣 Kutayotganda kanalimizni kuzating · MyRida Oʻzbekistan: yangiliklar va qaysi yoʻnalish qachon ochilishi. | Наш канал, пока ждёте |
+| Кнопка поста | Kanalga oʻtish | Перейти в канал |
 | Открытие, попутчик | 🔔 Yoʻnalishingiz ochildi · {route}: haydovchilar safar eʼlon qilmoqda. · Birinchilardan boʻlib joy band qiling. | Направление открыто |
 | Открытие, водитель | 🔔 Yoʻnalishingiz ochildi · {route}: {count} yoʻlovchi kutmoqda. · Safaringizni eʼlon qiling. | Вас ждут попутчики |
 | Кнопки открытия | Safar topish (есть) · Safar eʼlon qilish (есть) | |
